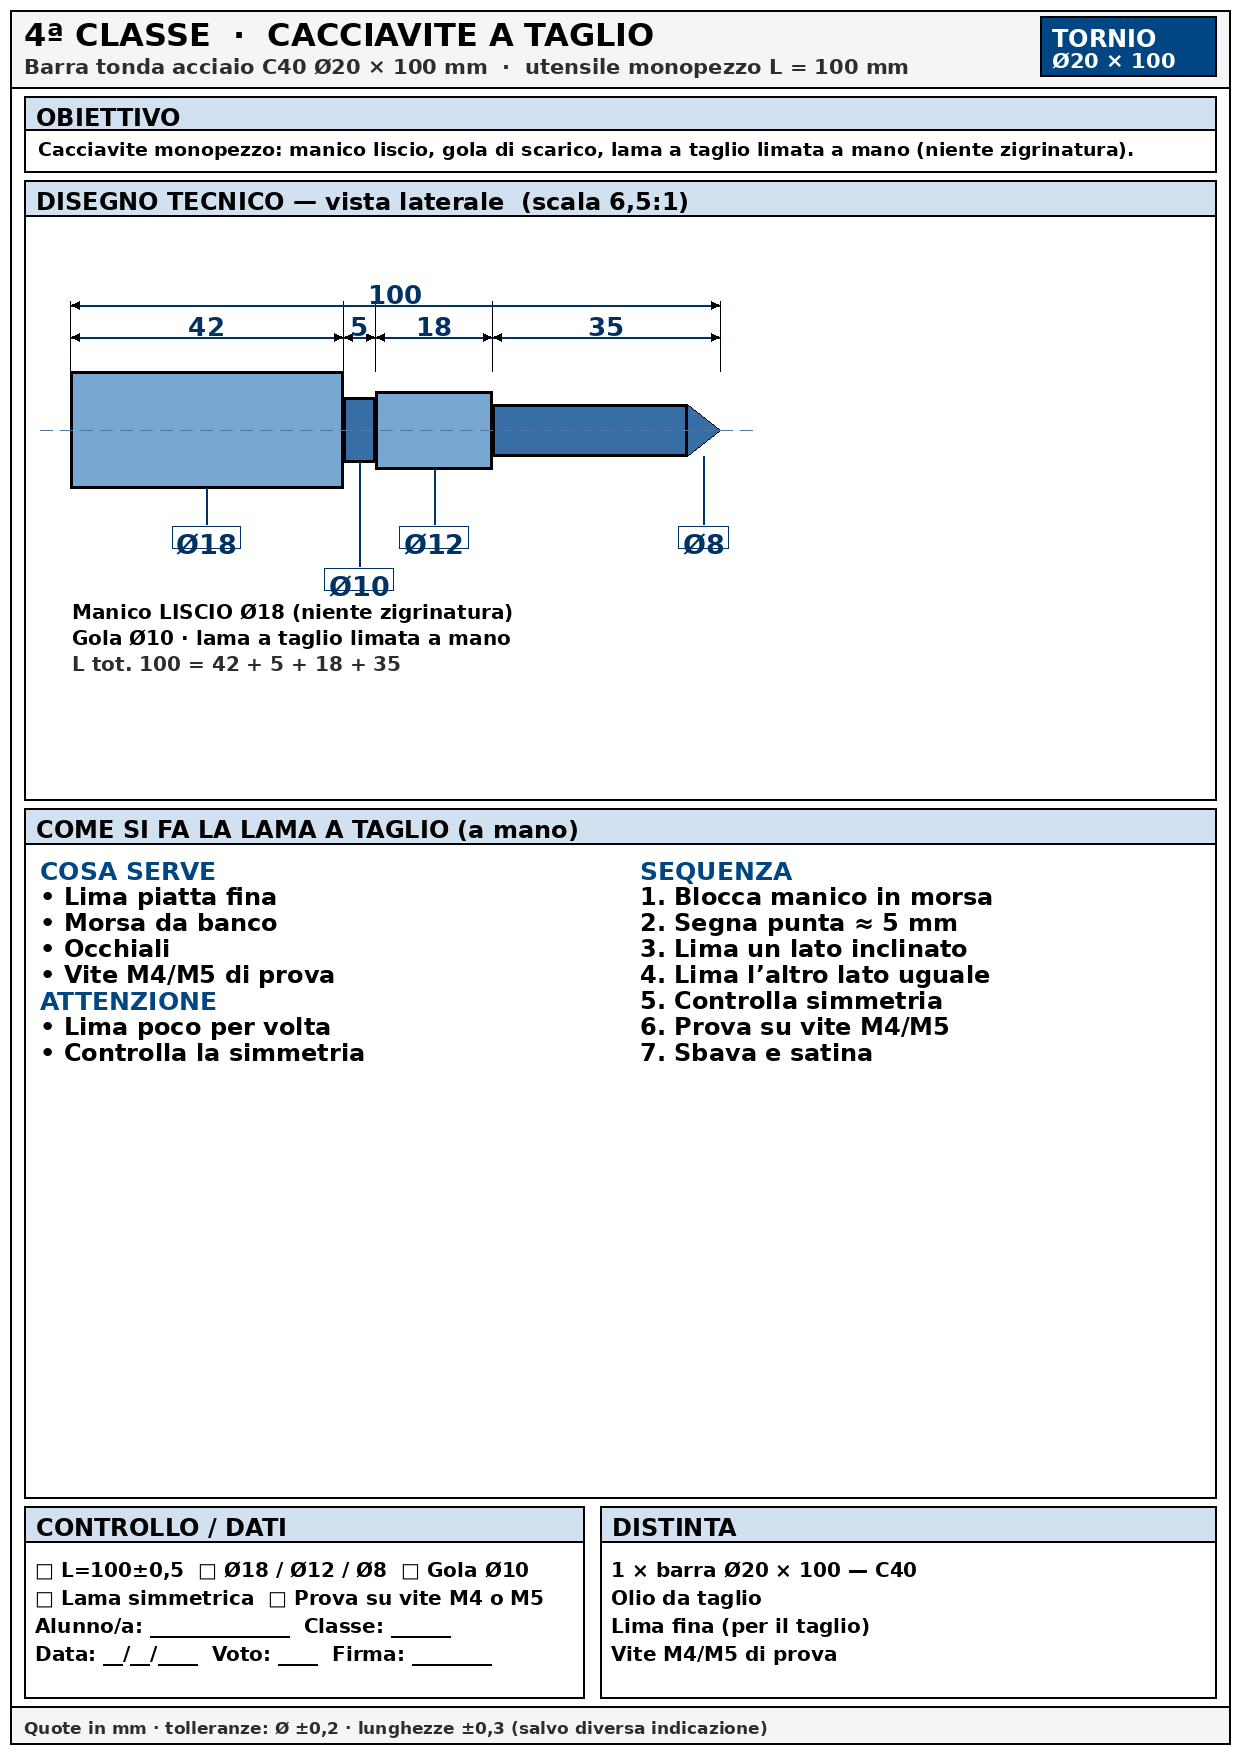
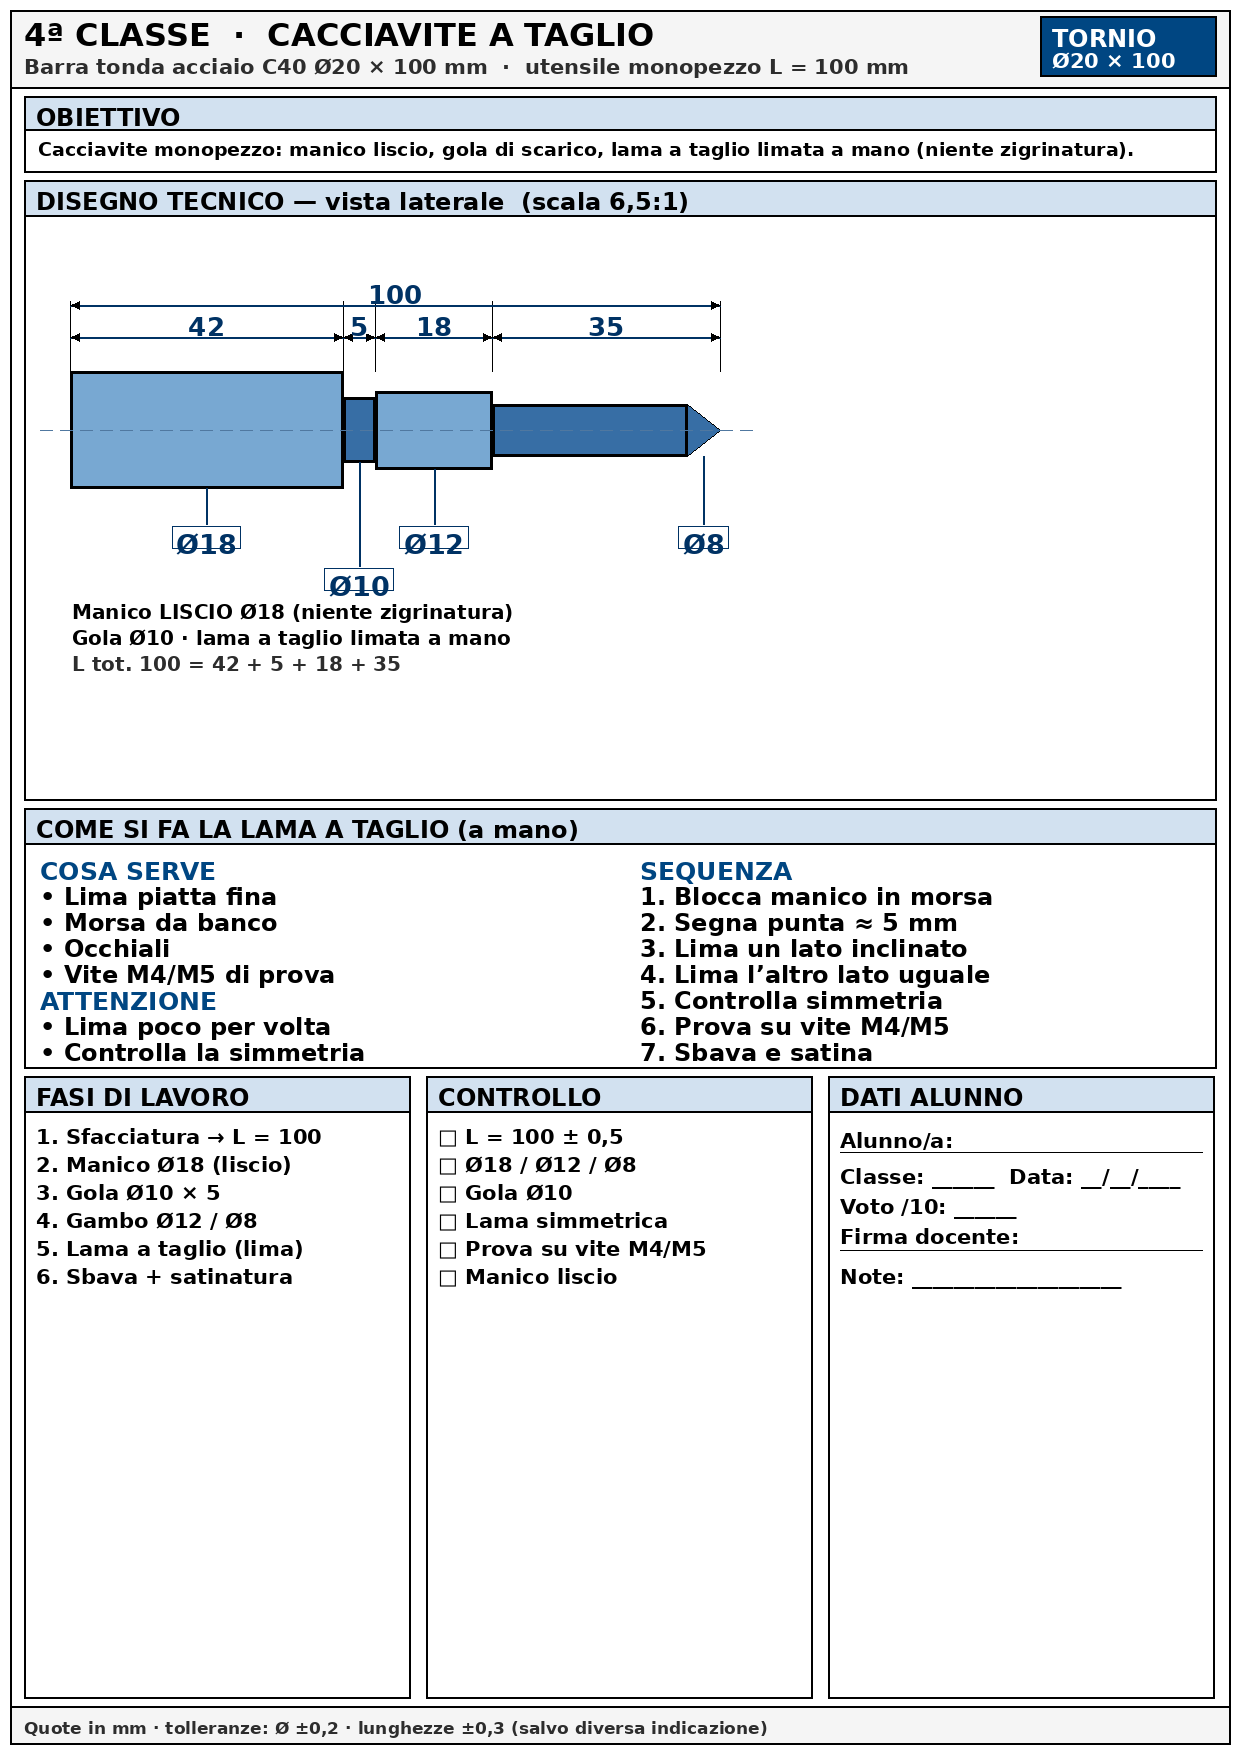
Tre sezioni basse Fasi/Controllo/Dati su tutte le schede (anche 4ª).

Changed region(s): [[0.0, 0.5849, 0.9806, 0.9544]]

diff --git a/progetti-ferro-gallery/generate_ferro.py b/progetti-ferro-gallery/generate_ferro.py
@@ -973,8 +973,8 @@ def make_4a():
     text_in_box(d, ox, min(ny + 52, max_note_y - 24), W - 80 - ox, 24, "L tot. 100 = 42 + 5 + 18 + 35", F13, GRAY, pad=2)
 
     zg = draw_top + draw_h + 8
-    bot_reserve = 200
-    zg_h = max(220, FOOT - zg - bot_reserve - 8)
+    # pannello lama compatto → resto alle 3 sezioni basse (come 5ª)
+    zg_h = 260
     y = panel(d, 24, zg, W - 48, zg_h, "COME SI FA LA LAMA A TAGLIO (a mano)")
     col1 = [
         "COSA SERVE",
@@ -1012,19 +1012,47 @@ def make_4a():
         f = F14 if ln == "SEQUENZA" else F13
         d.text((640, yy), ln, fill=fill, font=f)
 
+    # Tre sezioni basse come 5ª (Fasi / Controllo / Dati)
     bot = zg + zg_h + 8
     bh = FOOT - bot - 8
-    y = panel(d, 24, bot, 560, bh, "CONTROLLO / DATI")
-    text_in_box(d, 32, y + 4, 540, 26, "□ L=100±0,5  □ Ø18 / Ø12 / Ø8  □ Gola Ø10", F13, BLACK, pad=3)
-    text_in_box(d, 32, y + 32, 540, 26, "□ Lama simmetrica  □ Prova su vite M4 o M5", F13, BLACK, pad=3)
-    text_in_box(d, 32, y + 60, 540, 26, "Alunno/a: ______________  Classe: ______", F13, BLACK, pad=3)
-    text_in_box(d, 32, y + 88, 540, 26, "Data: __/__/____  Voto: ____  Firma: ________", F13, BLACK, pad=3)
+    gap_p = 16
+    col_w = (W - 48 - 2 * gap_p) // 3
+    x_fasi, x_ctrl, x_dati = 24, 24 + col_w + gap_p, 24 + 2 * (col_w + gap_p)
 
-    y2 = panel(d, 600, bot, W - 24 - 600, bh, "DISTINTA")
-    text_in_box(d, 608, y2 + 4, 560, 26, "1 × barra Ø20 × 100 — C40", F13, BLACK, pad=3)
-    text_in_box(d, 608, y2 + 32, 560, 26, "Olio da taglio", F13, BLACK, pad=3)
-    text_in_box(d, 608, y2 + 60, 560, 26, "Lima fina (per il taglio)", F13, BLACK, pad=3)
-    text_in_box(d, 608, y2 + 88, 560, 26, "Vite M4/M5 di prova", F13, BLACK, pad=3)
+    fasi4 = [
+        "1. Sfacciatura → L = 100",
+        "2. Manico Ø18 (liscio)",
+        "3. Gola Ø10 × 5",
+        "4. Gambo Ø12 / Ø8",
+        "5. Lama a taglio (lima)",
+        "6. Sbava + satinatura",
+    ]
+    y = panel(d, x_fasi, bot, col_w, bh, "FASI DI LAVORO")
+    step4 = list_step(len(fasi4), bh - 48)
+    for i, ln in enumerate(fasi4):
+        d.text((x_fasi + 12, y + 2 + i * step4), ln, fill=BLACK, font=F12)
+
+    ctrl4 = [
+        "□ L = 100 ± 0,5",
+        "□ Ø18 / Ø12 / Ø8",
+        "□ Gola Ø10",
+        "□ Lama simmetrica",
+        "□ Prova su vite M4/M5",
+        "□ Manico liscio",
+    ]
+    y2 = panel(d, x_ctrl, bot, col_w, bh, "CONTROLLO")
+    step4c = list_step(len(ctrl4), bh - 48)
+    for i, ln in enumerate(ctrl4):
+        d.text((x_ctrl + 12, y2 + 2 + i * step4c), ln, fill=BLACK, font=F12)
+
+    y3 = panel(d, x_dati, bot, col_w, bh, "DATI ALUNNO")
+    d.text((x_dati + 12, y3 + 6), "Alunno/a:", fill=BLACK, font=F12)
+    d.line([x_dati + 12, y3 + 30, x_dati + col_w - 12, y3 + 30], fill=BLACK, width=1)
+    d.text((x_dati + 12, y3 + 42), "Classe: ______  Data: __/__/____", fill=BLACK, font=F12)
+    d.text((x_dati + 12, y3 + 72), "Voto /10: ______", fill=BLACK, font=F12)
+    d.text((x_dati + 12, y3 + 102), "Firma docente:", fill=BLACK, font=F12)
+    d.line([x_dati + 12, y3 + 128, x_dati + col_w - 12, y3 + 128], fill=BLACK, width=1)
+    d.text((x_dati + 12, y3 + 142), "Note: ____________________", fill=BLACK, font=F12)
 
     save(img, "03-4a-cacciavite.png", "STAMPA-4a-cacciavite.png")
 
